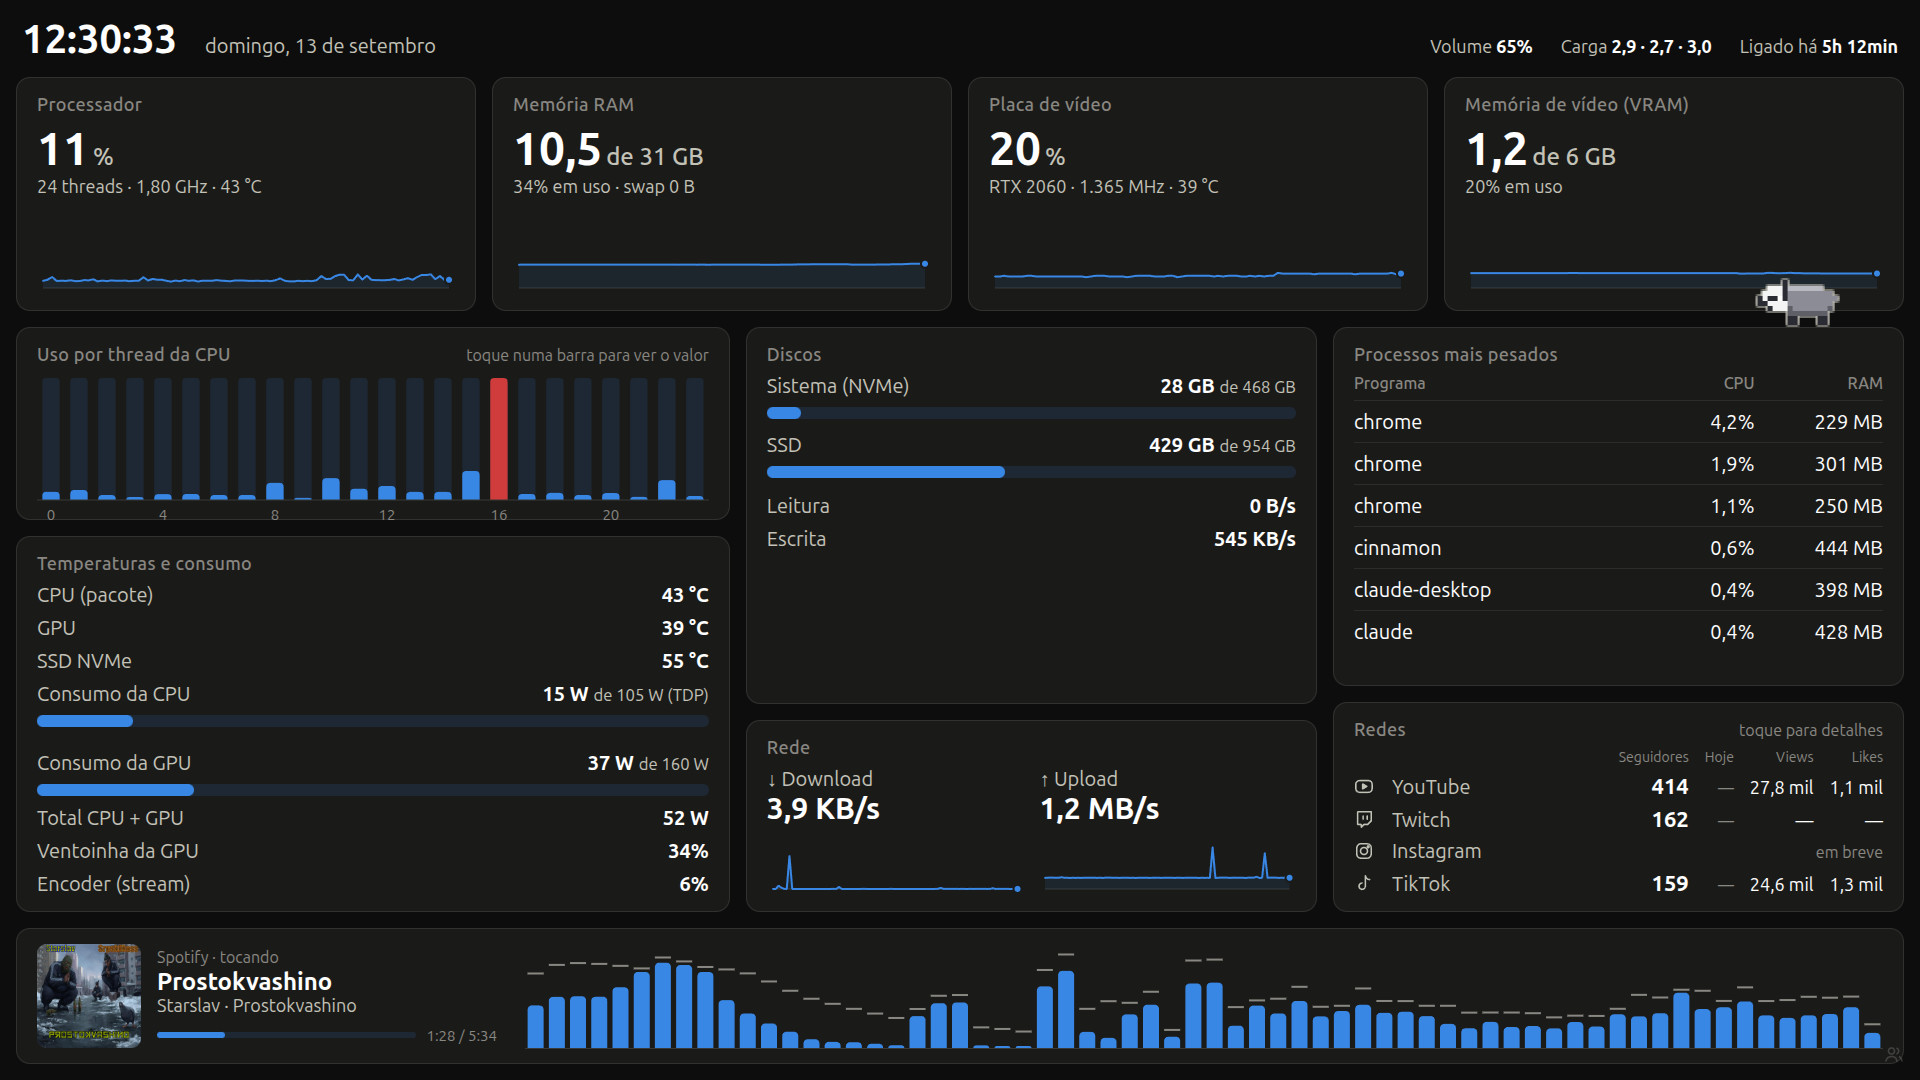
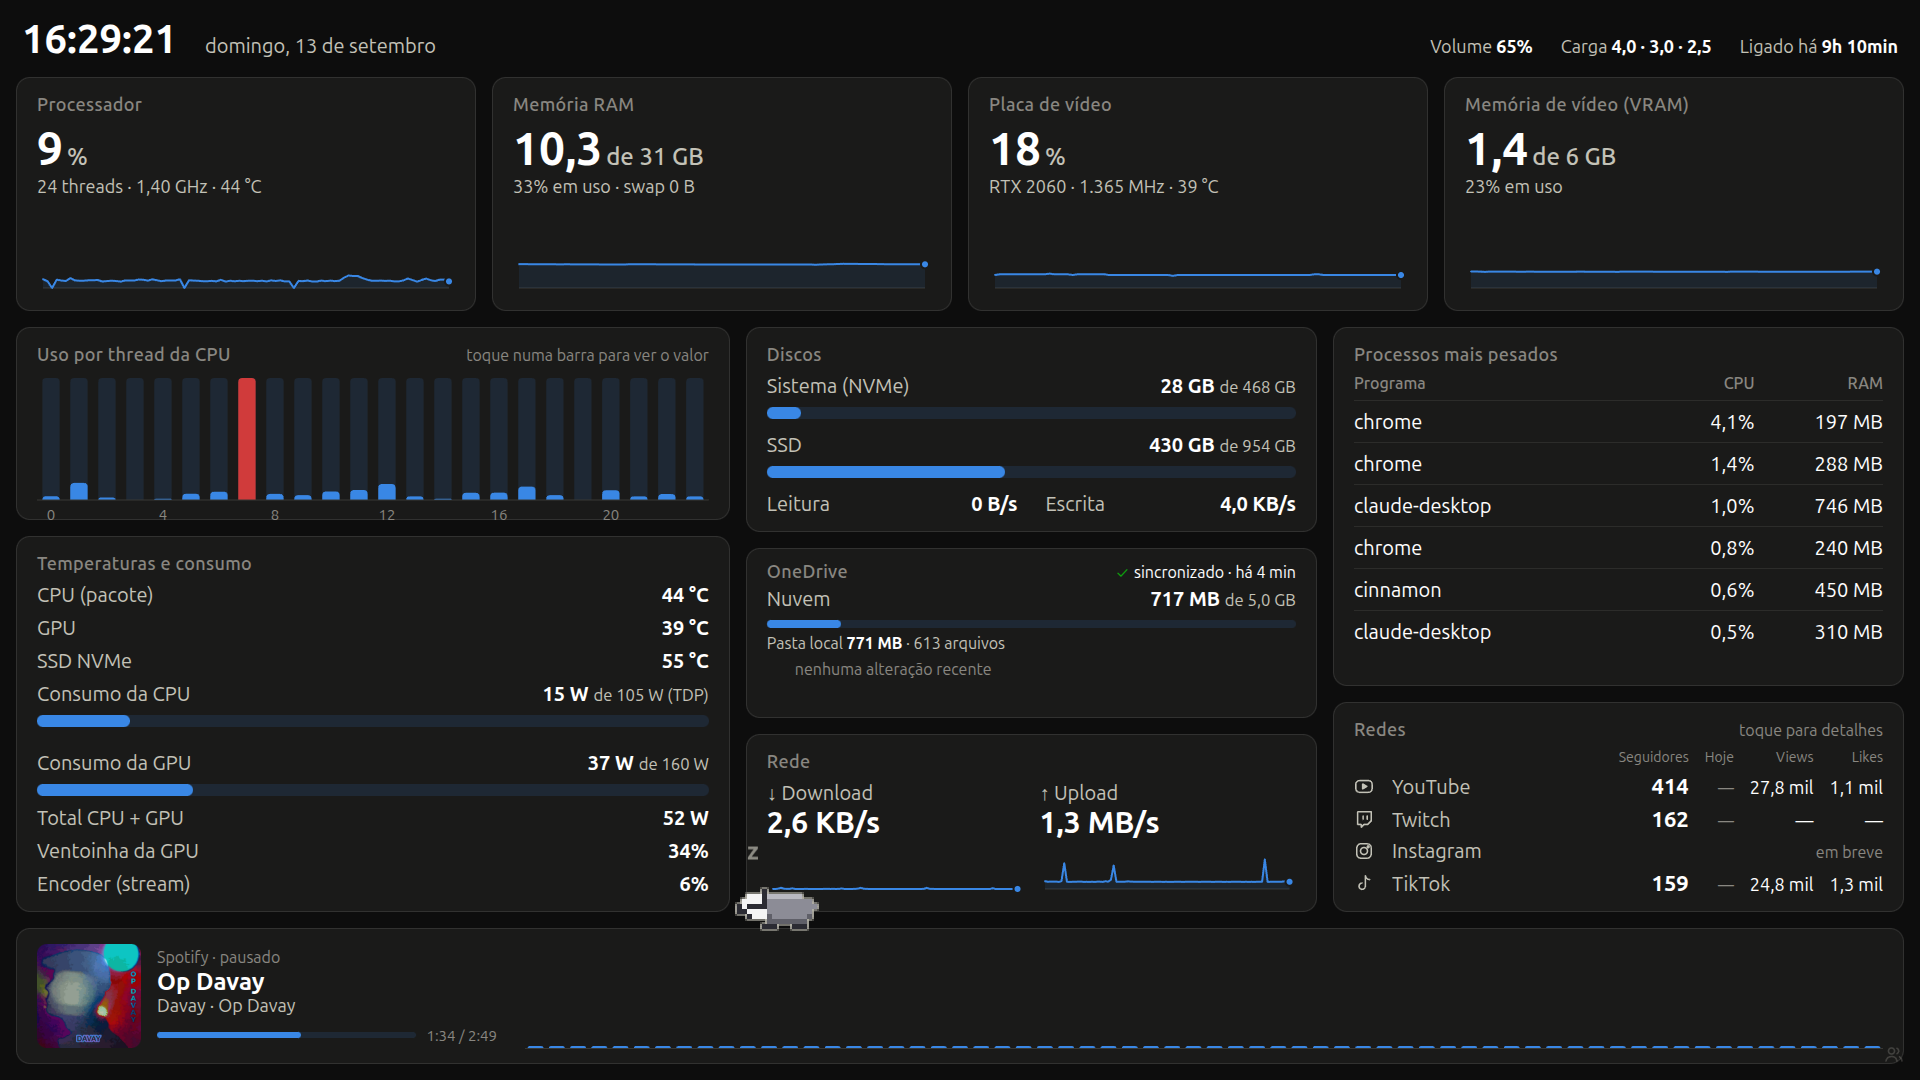
Prepara pra repo público: config da máquina fora do código, prints novos
- config.json local (monitor, rede, discos, TDP) com config.exemplo.json;
  a rede é detectada pela rota padrão e o nome da GPU vem do nvidia-smi
- Atalho padrão "Arquivos" abre a home em vez de um caminho da máquina
- Cota do OneDrive em cache: reiniciar o painel não renova mais o token
  do cliente toda vez
- README sem caminhos da máquina, com a tabela do config.json, o print
  novo (com o card do OneDrive) e a faixa do visualizador

diff --git a/index.html b/index.html
@@ -473,7 +473,7 @@ function render(s) {
     `${fmtN(m.pct)}% em uso · swap ${fmtBytes(m.swap_used)}`);
   if (g) {
     setTile("t-gpu", `${fmtN(g.util)}<small>%</small>`,
-      `RTX 2060 · ${fmtN(g.clock)} MHz · ${fmtN(g.temp)} °C`);
+      `${esc(g.name || "GPU")} · ${fmtN(g.clock)} MHz · ${fmtN(g.temp)} °C`);
     const vp = 100 * g.mem_used / g.mem_total;
     setTile("t-vram", `${levelIcon(level(vp, 85, 95))}${fmtN(g.mem_used / 1024, 1)}<small>de ${fmtN(g.mem_total / 1024, 0)} GB</small>`,
       `${fmtN(vp)}% em uso`);
@@ -495,10 +495,12 @@ function render(s) {
     return row(label, `${levelIcon(l)}${fmtN(t)} °C${levelWord[l]}`);
   };
   let sens = tRow("CPU (pacote)", c.temp, 80, 90) + (g ? tRow("GPU", g.temp, 78, 86) : "") + tRow("SSD NVMe", s.nvme_temp, 65, 75);
-  const CPU_TDP = 105; // Xeon E5-2650 v4
-  if (c.power != null) {
+  const CPU_TDP = c.tdp; // config.json -> cpu_tdp_w; sem ele mostra so os watts
+  if (c.power != null && CPU_TDP) {
     const cp = 100 * c.power / CPU_TDP;
     sens += meterBlock("Consumo da CPU", `${fmtN(c.power)} W <small>de ${CPU_TDP} W (TDP)</small>`, cp, level(cp, 85, 100));
+  } else if (c.power != null) {
+    sens += row("Consumo da CPU", `${fmtN(c.power)} W`);
   } else {
     sens += row("Consumo da CPU", `<small>sem acesso ao sensor</small>`);
   }

diff --git a/server.py b/server.py
@@ -26,9 +26,8 @@ from redes import Redes
 HOST, PORT = "127.0.0.1", 8787
 BASE = Path(__file__).resolve().parent
 CONFIG = Path.home() / ".config/pc-dashboard/atalhos.json"
+SETTINGS_FILE = Path.home() / ".config/pc-dashboard/config.json"  # coisas da maquina (ver config.exemplo.json)
 ALLOWED_HOSTS = {f"127.0.0.1:{PORT}", f"localhost:{PORT}"}
-NET_IFACE = "enp7s0"
-DISKS = [("/", "Sistema (NVMe)"), ("/mnt/SSD", "SSD")]
 AUDIO_RATE = 24000
 MPRIS = "org.mpris.MediaPlayer2"
 
@@ -38,12 +37,37 @@ DEFAULT_SHORTCUTS = [
     {"id": "mute", "label": "Mudo", "icon": "🔇", "cmd": ["pactl", "set-sink-mute", "@DEFAULT_SINK@", "toggle"]},
     {"id": "print", "label": "Print da tela", "icon": "📸", "cmd": ["gnome-screenshot"]},
     {"id": "terminal", "label": "Terminal", "icon": "⌨", "cmd": ["gnome-terminal"]},
-    {"id": "ssd", "label": "Arquivos do SSD", "icon": "📁", "cmd": ["nemo", "/mnt/SSD"]},
+    {"id": "arquivos", "label": "Arquivos", "icon": "📁", "cmd": ["xdg-open", str(Path.home())]},
     {"id": "steam", "label": "Steam", "icon": "🎮", "cmd": ["steam"]},
     {"id": "monitor", "label": "Monitor do sistema", "icon": "📊", "cmd": ["gnome-system-monitor"]},
     {"id": "sunshine", "label": "Painel Sunshine", "icon": "☀", "cmd": ["xdg-open", "https://localhost:47990"]},
     {"id": "lock", "label": "Bloquear tela", "icon": "🔒", "cmd": ["cinnamon-screensaver-command", "--lock"]},
 ]
+
+
+def load_settings():
+    try:
+        return json.loads(SETTINGS_FILE.read_text())
+    except (OSError, ValueError):
+        return {}
+
+
+def default_iface():
+    """Interface da rota padrao, pra nao precisar configurar a rede."""
+    try:
+        for line in Path("/proc/net/route").read_text().splitlines()[1:]:
+            f = line.split()
+            if f[1] == "00000000" and int(f[3], 16) & 2:
+                return f[0]
+    except (OSError, ValueError, IndexError):
+        pass
+    return None
+
+
+SETTINGS = load_settings()
+NET_IFACE = SETTINGS.get("rede") or default_iface()
+DISKS = [(d["caminho"], d["nome"]) for d in SETTINGS.get("discos", [])] or [("/", "Sistema")]
+CPU_TDP = SETTINGS.get("cpu_tdp_w")
 
 
 def load_shortcuts():
@@ -62,7 +86,7 @@ class GpuReader:
 
     FIELDS = ["util", "enc", "dec", "mem_used", "mem_total", "temp", "power", "power_limit", "fan", "clock"]
     QUERY = ("utilization.gpu,utilization.encoder,utilization.decoder,memory.used,memory.total,"
-             "temperature.gpu,power.draw,power.limit,fan.speed,clocks.gr")
+             "temperature.gpu,power.draw,power.limit,fan.speed,clocks.gr,name")  # name por ultimo: pode ter virgula
 
     def __init__(self):
         self.latest = None
@@ -75,10 +99,11 @@ class GpuReader:
                     ["nvidia-smi", f"--query-gpu={self.QUERY}", "--format=csv,noheader,nounits", "-lms", "1000"],
                     stdout=subprocess.PIPE, stderr=subprocess.DEVNULL, text=True)
                 for line in proc.stdout:
-                    vals = [v.strip() for v in line.split(",")]
-                    if len(vals) != len(self.FIELDS):
+                    vals = [v.strip() for v in line.split(",", len(self.FIELDS))]
+                    if len(vals) != len(self.FIELDS) + 1:
                         continue
                     self.latest = {k: _num(v) for k, v in zip(self.FIELDS, vals)}
+                    self.latest["name"] = vals[-1].replace("NVIDIA ", "").replace("GeForce ", "")
             except OSError:
                 pass
             self.latest = None
@@ -228,7 +253,7 @@ class Collector:
             "uptime": time.time() - psutil.boot_time(),
             "load": os.getloadavg(),
             "cpu": {"pct": sum(per) / len(per), "per": per, "freq": freq.current if freq else None,
-                    "temp": cpu_temp, "threads": len(per), "power": self.rapl.watts(now)},
+                    "temp": cpu_temp, "threads": len(per), "power": self.rapl.watts(now), "tdp": CPU_TDP},
             "mem": {"used": vm.total - vm.available, "total": vm.total, "pct": vm.percent,
                     "swap_used": sw.used, "swap_total": sw.total},
             "gpu": self.gpu.latest,

diff --git a/onedrive.py b/onedrive.py
@@ -13,6 +13,7 @@ import time
 from pathlib import Path
 
 CONFIG = Path.home() / ".config/onedrive/config"
+QUOTA_CACHE = Path.home() / ".config/pc-dashboard/onedrive-cota.json"  # sobrevive a reinicios do painel
 QUOTA_EVERY = 3600  # --display-quota reescreve o token do cliente: pouca frequencia
 LOCAL_EVERY = 600
 
@@ -95,7 +96,12 @@ class OneDrive:
 
     # --- servico, cota e pasta local ---
     def _poll(self):
-        next_quota = next_local = 0
+        next_local = 0
+        try:
+            self._quota = json.loads(QUOTA_CACHE.read_text())
+            next_quota = self._quota["t"] + QUOTA_EVERY
+        except (OSError, ValueError, KeyError, TypeError):
+            next_quota = 0
         while True:
             now = time.time()
             self._active = subprocess.run(["systemctl", "--user", "is-active", "onedrive"],
@@ -105,7 +111,13 @@ class OneDrive:
                 self._local = self._scan(_sync_dir())
             if now >= next_quota and self._active == "active":
                 next_quota = now + QUOTA_EVERY
-                self._quota = self._read_quota() or self._quota
+                q = self._read_quota()
+                if q:
+                    self._quota = q
+                    try:
+                        QUOTA_CACHE.write_text(json.dumps(q))
+                    except OSError:
+                        pass
             self._publish()
             time.sleep(10)
 

diff --git a/README.md b/README.md
@@ -21,6 +21,8 @@ Dashboard em tela cheia que roda num **monitor virtual** do Linux e é transmiti
 - **Tocando agora** pelo MPRIS (Spotify, navegador, VLC…): capa, título, artista e progresso
 - **Visualizador de áudio** de 64 barras que capta o som do PC (qualquer programa), com FFT feita no navegador e ganho automático
 
+![Tocando agora e visualizador de áudio](docs/musica.png)
+
 **Redes sociais**
 - Card na tela principal com seguidores, "+N hoje", views e likes de cada rede
 - Página de detalhes com o último vídeo/post, os totais e a tendência dos últimos 30 dias
@@ -35,7 +37,7 @@ Dashboard em tela cheia que roda num **monitor virtual** do Linux e é transmiti
 
 **Texugo** 🦡
 - Anda por cima dos cards e pula de um pro outro, inclusive quando a página muda
-- Dança no ritmo da música, dorme quando fica parado, sua quando o PC esquenta
+- Dança no ritmo da música, dorme quando fica parado (no print acima ele está cochilando em cima do card de música), sua quando o PC esquenta
 - Comemora quando entra seguidor novo; tocar nele ganha um coração
 
 **Páginas**: painel → redes → atalhos, trocadas por um botão discreto no canto inferior direito. A página de atalhos volta sozinha pro painel depois de 90 s sem toque.
@@ -72,7 +74,7 @@ Precisa de Python 3 com `psutil`, `google-chrome`, `wmctrl`, `xrandr`, `curl`, `
    Description=Painel do PC (servidor local 127.0.0.1:8787)
 
    [Service]
-   ExecStart=/usr/bin/python3 /mnt/SSD/git-projeto/pc-dashboard/server.py
+   ExecStart=/usr/bin/python3 /caminho/para/pc-dashboard/server.py
    KillMode=process
    Restart=on-failure
    RestartSec=3s
@@ -84,14 +86,23 @@ Precisa de Python 3 com `psutil`, `google-chrome`, `wmctrl`, `xrandr`, `curl`, `
    [Desktop Entry]
    Type=Application
    Name=Painel do PC
-   Exec=sh -c "sleep 15; bash /mnt/SSD/git-projeto/pc-dashboard/abrir-painel.sh"
+   Exec=sh -c "sleep 15; bash /caminho/para/pc-dashboard/abrir-painel.sh"
    X-GNOME-Autostart-enabled=true
    NoDisplay=true
    ```
 
-3. Atalhos: copie `atalhos.exemplo.json` pra `~/.config/pc-dashboard/atalhos.json` e ajuste. Cada item é `{id, label, icon, cmd}`, e só os ids desse arquivo podem ser executados.
+3. Máquina: copie `config.exemplo.json` pra `~/.config/pc-dashboard/config.json` e ajuste (tudo é opcional):
 
-Depois de mudar `server.py` ou `redes.py`: `systemctl --user restart pc-dashboard.service`.
+   | Chave | Pra que serve | Sem ela |
+   |---|---|---|
+   | `monitor` | saída do xrandr onde o painel abre | `DP-0` |
+   | `rede` | interface de rede dos gráficos | a da rota padrão |
+   | `discos` | lista de `{caminho, nome}` mostrados no card de discos | só `/` |
+   | `cpu_tdp_w` | TDP da CPU pra barra de consumo | mostra só os watts |
+
+4. Atalhos: copie `atalhos.exemplo.json` pra `~/.config/pc-dashboard/atalhos.json` e ajuste. Cada item é `{id, label, icon, cmd}`, e só os ids desse arquivo podem ser executados.
+
+Depois de mudar `server.py`, `redes.py` ou `onedrive.py`: `systemctl --user restart pc-dashboard.service`.
 
 ## Configurando as redes
 
@@ -118,10 +129,12 @@ Se a URI cadastrada no TikTok for outra, informe o endereço exato em `tiktok.re
 
 | Arquivo | O que é |
 |---|---|
+| `~/.config/pc-dashboard/config.json` | monitor, rede, discos e TDP da máquina |
 | `~/.config/pc-dashboard/redes.json` | credenciais das redes |
 | `~/.config/pc-dashboard/redes-tokens.json` | tokens renovados (Instagram, TikTok) |
 | `~/.config/pc-dashboard/redes-historico.json` | histórico diário pro "+N hoje" e a tendência |
 | `~/.config/pc-dashboard/atalhos.json` | atalhos da página de atalhos |
+| `~/.config/pc-dashboard/onedrive-cota.json` | última cota lida do OneDrive (cache de 1 h) |
 | `~/.config/pc-dashboard/chrome/` | perfil do Chrome do painel |
 
 ## Segurança
